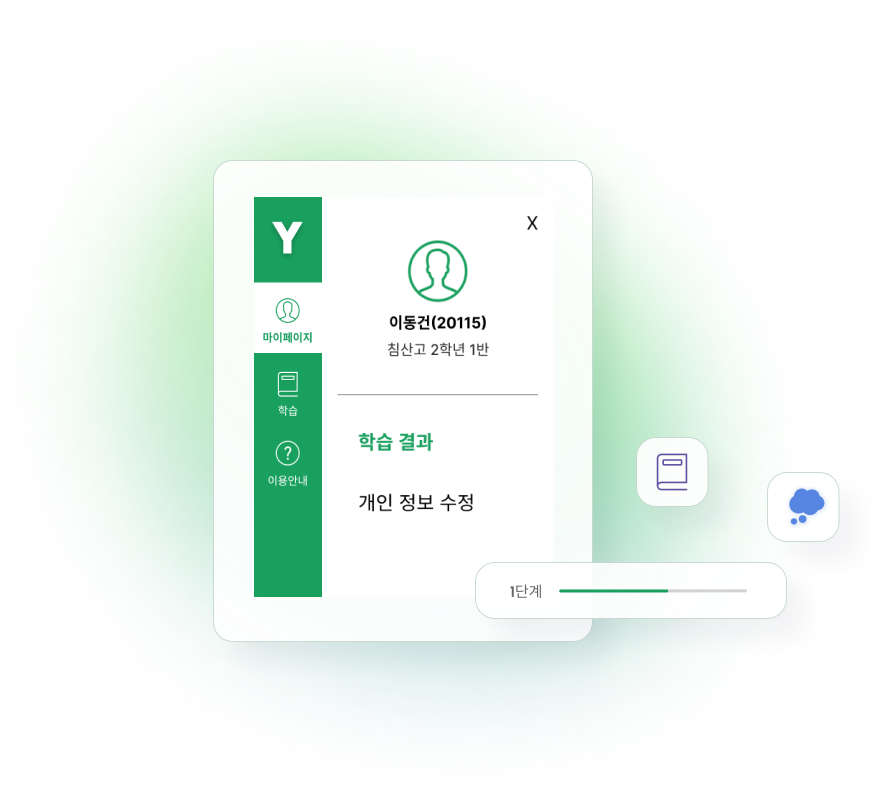
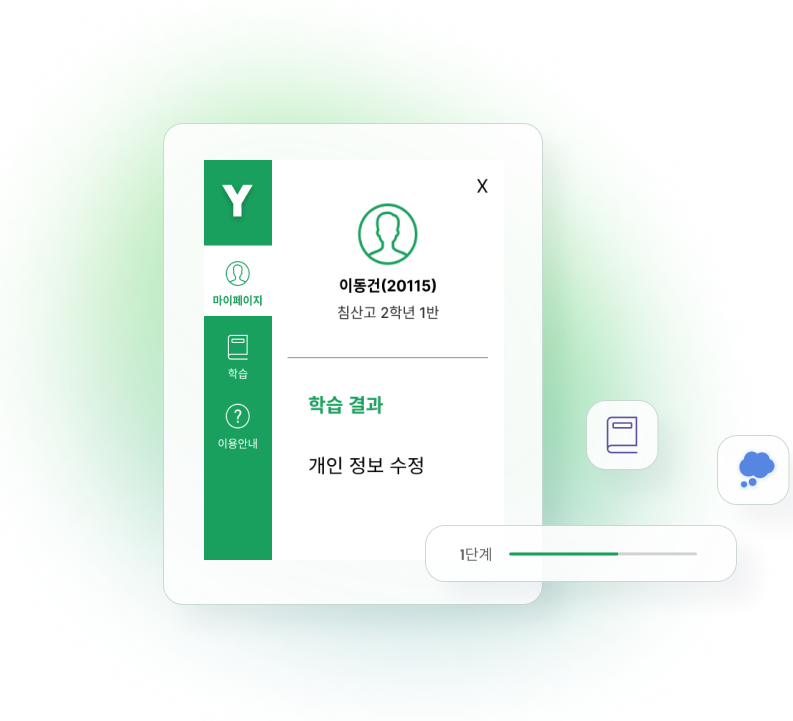
최종

diff --git a/src/style/HomePage.scss b/src/style/HomePage.scss
@@ -1,23 +1,16 @@
 
 $dark-green:#105A31;
 $green:#19A05E;
-
 p {
 	font-family: "Noto Sans KR", sans-serif;
 	font-weight: 400;
 }
 .home-wrapper{
 	position: relative;
-	max-width: 1024px;
-	max-height: 3232px;
+	max-width: 1440px;
 	margin: 0 auto;
 }
 
-.logo{
-	position: fixed;
-	left: 300px;
-	top:30px;
-}
 .image {
 	animation: fadein 2s;
 	-moz-animation: fadein 2s; /* Firefox */
@@ -56,7 +49,7 @@ p {
 		opacity: 1;
 	}
 }
-/* Frame 55 */
+
 .title-wrapper{
 	position: absolute;
 	width: 600px;
@@ -149,29 +142,28 @@ p {
 
 .title-img{
 	position: absolute;
-	top: 0px;
-	left: 25px;
-	width: 1130.18px;
-	height: 1164.7px;
+	top: 60px;
+	left: 30px;
 }
 
 .line{
 	border-bottom: 0.063rem dashed #C7C7C7;
 }
 .home-first{
+	width: 1440px;
 	position: absolute;
+	margin: auto;
 	top: 828px;
 	.image {
 		position: absolute;
-		left: -220px;
-		top: -60px;
+		left: -150px;
 	}
 	.text {
 		position: absolute;
 		width: 562px;
 		height: 379px;
-		left: 480px;
-		top: 120px;
+		left: 500px;
+		top: 150px;
 		.head{
 			position: absolute;
 			box-sizing: border-box;
@@ -244,14 +236,16 @@ p {
 	}
 }
 .home-second{
+	width: 1440px;
 	position: absolute;
-	width: 1059.94px;
-	height: 664px;
+	margin: auto;
 	top: 1569px;
 	.text{
 		position: absolute;
-		left: 30px;
-		top: 155px;
+		width: 562px;
+		height: 379px;
+		left: 50px;
+		top: 165px;
 		.head{
 			position: absolute;
 			box-sizing: border-box;
@@ -323,32 +317,28 @@ p {
 				width: 100%;
 			}
 		}
-		a {
-			color: inherit;
-			text-decoration: none;
-		}
-
 	}
 	.image {
 		position: absolute;
-		left: 390px;
-		top: -80px;
+		left: 460px;
 	}
 }
 .home-third{
 	position: absolute;
+	margin: auto;
+	width: 1440px;
 	top: 2434px;
+	text-align: center;
 	.image {
 		position: absolute;
-		left: -200px;
-		top: -120px;
+		left: -150px;
 	}
 	.text {
 		position: absolute;
 		width: 480px;
 		height: 379px;
-		left: 600px;
-		top: 123px;
+		left: 630px;
+		top: 150px;
 
 		.head{
 			position: absolute;
@@ -395,9 +385,8 @@ p {
 
 footer{
 	position: absolute;
-	width: 100%;
-	height: 77px;
-	left: 0px;
+	margin: 0 auto;
+	width: 1440px;
 	top: 3155px;
 	text-align: center;
 }

diff --git a/public/index.html b/public/index.html
@@ -5,9 +5,9 @@
     <link rel="icon" href="%PUBLIC_URL%/favicon.ico" />
     <link rel="preconnect" href="https://fonts.googleapis.com">
     <link rel="preconnect" href="https://fonts.gstatic.com" crossorigin>
-    <link href="https://fonts.googleapis.com/css2?family=Noto+Sans+KR&display=swap" rel="stylesheet">
-    <link href="https://fonts.googleapis.com/css2?family=Noto+Sans%display=swap" rel="stylesheet">
-    <link href="https://fonts.googleapis.com/css2?family=Righteous&display=swap" rel="stylesheet">
+    <link href="https://fonts.googleapis.com/css2?family=Noto+Sans+KR:wght@100;300;400;500;700;900&display=swap" rel="stylesheet">
+    <link href="https://fonts.googleapis.com/css2?family=Noto+Sans:wght@400&display=swap" rel="stylesheet">
+    <link rel="stylesheet" href="https://fonts.googleapis.com/css2?family=Righteous&display=swap">
     <link rel="stylesheet" type="text/css" href="https://cdn.jsdelivr.net/gh/moonspam/NanumSquare@2.0/nanumsquare.css">
     <meta name="viewport" content="width=device-width, initial-scale=1" />
     <meta name="theme-color" content="#000000" />

diff --git a/src/pages/Teacher/study/TeacherAnswerBar.jsx b/src/pages/Teacher/study/TeacherAnswerBar.jsx
@@ -123,7 +123,7 @@ const TeacherAnswerBar = () => {
     const StudentData = async () => {
       try {
         const response = await axios.get(
-          `http://52.79.181.56:8080/teacher/${id}/study/1/${chap_id}`
+          `http://spring.youquiz.site:8080/teacher/${id}/study/1/${chap_id}`
         );
         setData(response.data.answer_sentence_list);
         setAnswer(response.data.commentEntityList);
@@ -162,7 +162,7 @@ if (!data) {
     setReplyingStudentId(null);
     try {
       // 서버로 수정된 답변을 보냄
-      await axios.post(`http://52.79.181.56:8080/teacher/${id}/study/${chap_id}/${studentId}/comment`, {
+      await axios.post(`http://spring.youquiz.site:8080/teacher/${id}/study/${chap_id}/${studentId}/comment`, {
         comment: comment,
       });
     } catch (error) {

diff --git a/src/store/resultSlice.jsx b/src/store/resultSlice.jsx
@@ -23,7 +23,7 @@ export const ResultFetchThunk = ( id ) => {
 		}));
 
 		const request = async () => {
-			const response = await fetch(`http://52.79.181.56:8080/student/${id}/studystatus`);
+			const response = await fetch(`http://spring.youquiz.site:8080/student/${id}/studystatus`);
 			if(!response.ok) throw new Error("Failed!");
 			//console.log("response" + response.json());
 			return response.json();

diff --git a/src/store/teacherSlice.jsx b/src/store/teacherSlice.jsx
@@ -23,7 +23,7 @@ export const TeacherFetchThunk = (id) => {
 		}));
 
 		const request = async () => {
-			const response = await fetch(`http://52.79.181.56:8080/teacher/${id}/study`);
+			const response = await fetch(`http://spring.youquiz.site:8080/teacher/${id}/study`);
 			if(!response.ok) throw new Error("Failed!");
 			// console.log("response" + response.json());
 			return response.json();

diff --git a/src/store/chapSlice.jsx b/src/store/chapSlice.jsx
@@ -23,7 +23,7 @@ export const ChapFetchThunk = ( id ) => {
 		}));
 
 		const request = async () => {
-			const response = await fetch(`http://52.79.181.56:8080/student/${id}/study`);
+			const response = await fetch(`http://spring.youquiz.site:8080/student/${id}/study`);
 			if(!response.ok) throw new Error("Failed!");
 			// console.log("response" + response.json());
 			return response.json();

diff --git a/src/pages/Teacher/my/EvaluationData.jsx b/src/pages/Teacher/my/EvaluationData.jsx
@@ -15,7 +15,7 @@ export default function EvaluationData() {
       const Data = async () => {
       try {
         const response = await axios.get(
-          `http://52.79.181.56:8080/teacher/${id}/evaluationstatus`
+          `http://spring.youquiz.site:8080/teacher/${id}/evaluationstatus`
         );
           setLists(response.data.evaluation_status[0]);
         } catch (e) {

diff --git a/src/store/registerSlice.jsx b/src/store/registerSlice.jsx
@@ -45,7 +45,7 @@ export const RegisterFetchThunk = (role, id, password, username, birth, sex, pho
 		}));
 
 		const request = async () => {
-			const response = await fetch(`http://52.79.181.56:8080/register/${role}`, {
+			const response = await fetch(`http://spring.youquiz.site:8080/register/${role}`, {
 				method : "POST",
 				headers:{
 					"Content-Type" : "application/json"

diff --git a/src/pages/Student/study/QuestionPage.jsx b/src/pages/Student/study/QuestionPage.jsx
@@ -51,7 +51,7 @@ const QuestionPage = () => {
     const answerSentence = openEndedAnswer;
     console.log(answerList, answerSentence);
   
-    fetch(`http://52.79.181.56:8080/student/${id}/study/${chap_id}`, {
+    fetch(`http://spring.youquiz.site:8080/student/${id}/study/${chap_id}`, {
       method: "POST",
       headers: {
         "Content-Type": "application/json"

diff --git a/src/pages/Student/my/RquizMedia.jsx b/src/pages/Student/my/RquizMedia.jsx
@@ -46,7 +46,7 @@ export default function RquizMedia() {
       const Data = async () => {
         try {
           const response = await axios.get(
-            `http://52.79.181.56:8080/${role}/${id}/studystatus/${chap_id}`,
+            `http://spring.youquiz.site:8080/${role}/${id}/studystatus/${chap_id}`,
           );
           setQuestions(response.data);
 

diff --git a/src/pages/Teacher/my/StudyData.jsx b/src/pages/Teacher/my/StudyData.jsx
@@ -11,7 +11,7 @@ export default function StudyData() {
     const fetchData = async () => {
       try {
         const response = await axios.get(
-          `http://52.79.181.56:8080/teacher/${id}/studystatus`
+          `http://spring.youquiz.site:8080/teacher/${id}/studystatus`
         );
         setLists(response.data.student_list[0]);
       } catch (e) {

diff --git a/src/pages/Teacher/study/TquizMedia.jsx b/src/pages/Teacher/study/TquizMedia.jsx
@@ -45,7 +45,7 @@ export default function TquizMedia() {
     const Data = async () => {
       try {
         const response = await axios.get(
-          `http://52.79.181.56:8080/${role}/${id}/study/1/${chap_id}`
+          `http://spring.youquiz.site:8080/${role}/${id}/study/1/${chap_id}`
         );
         setQuestions(response.data);
       } catch (e) {
